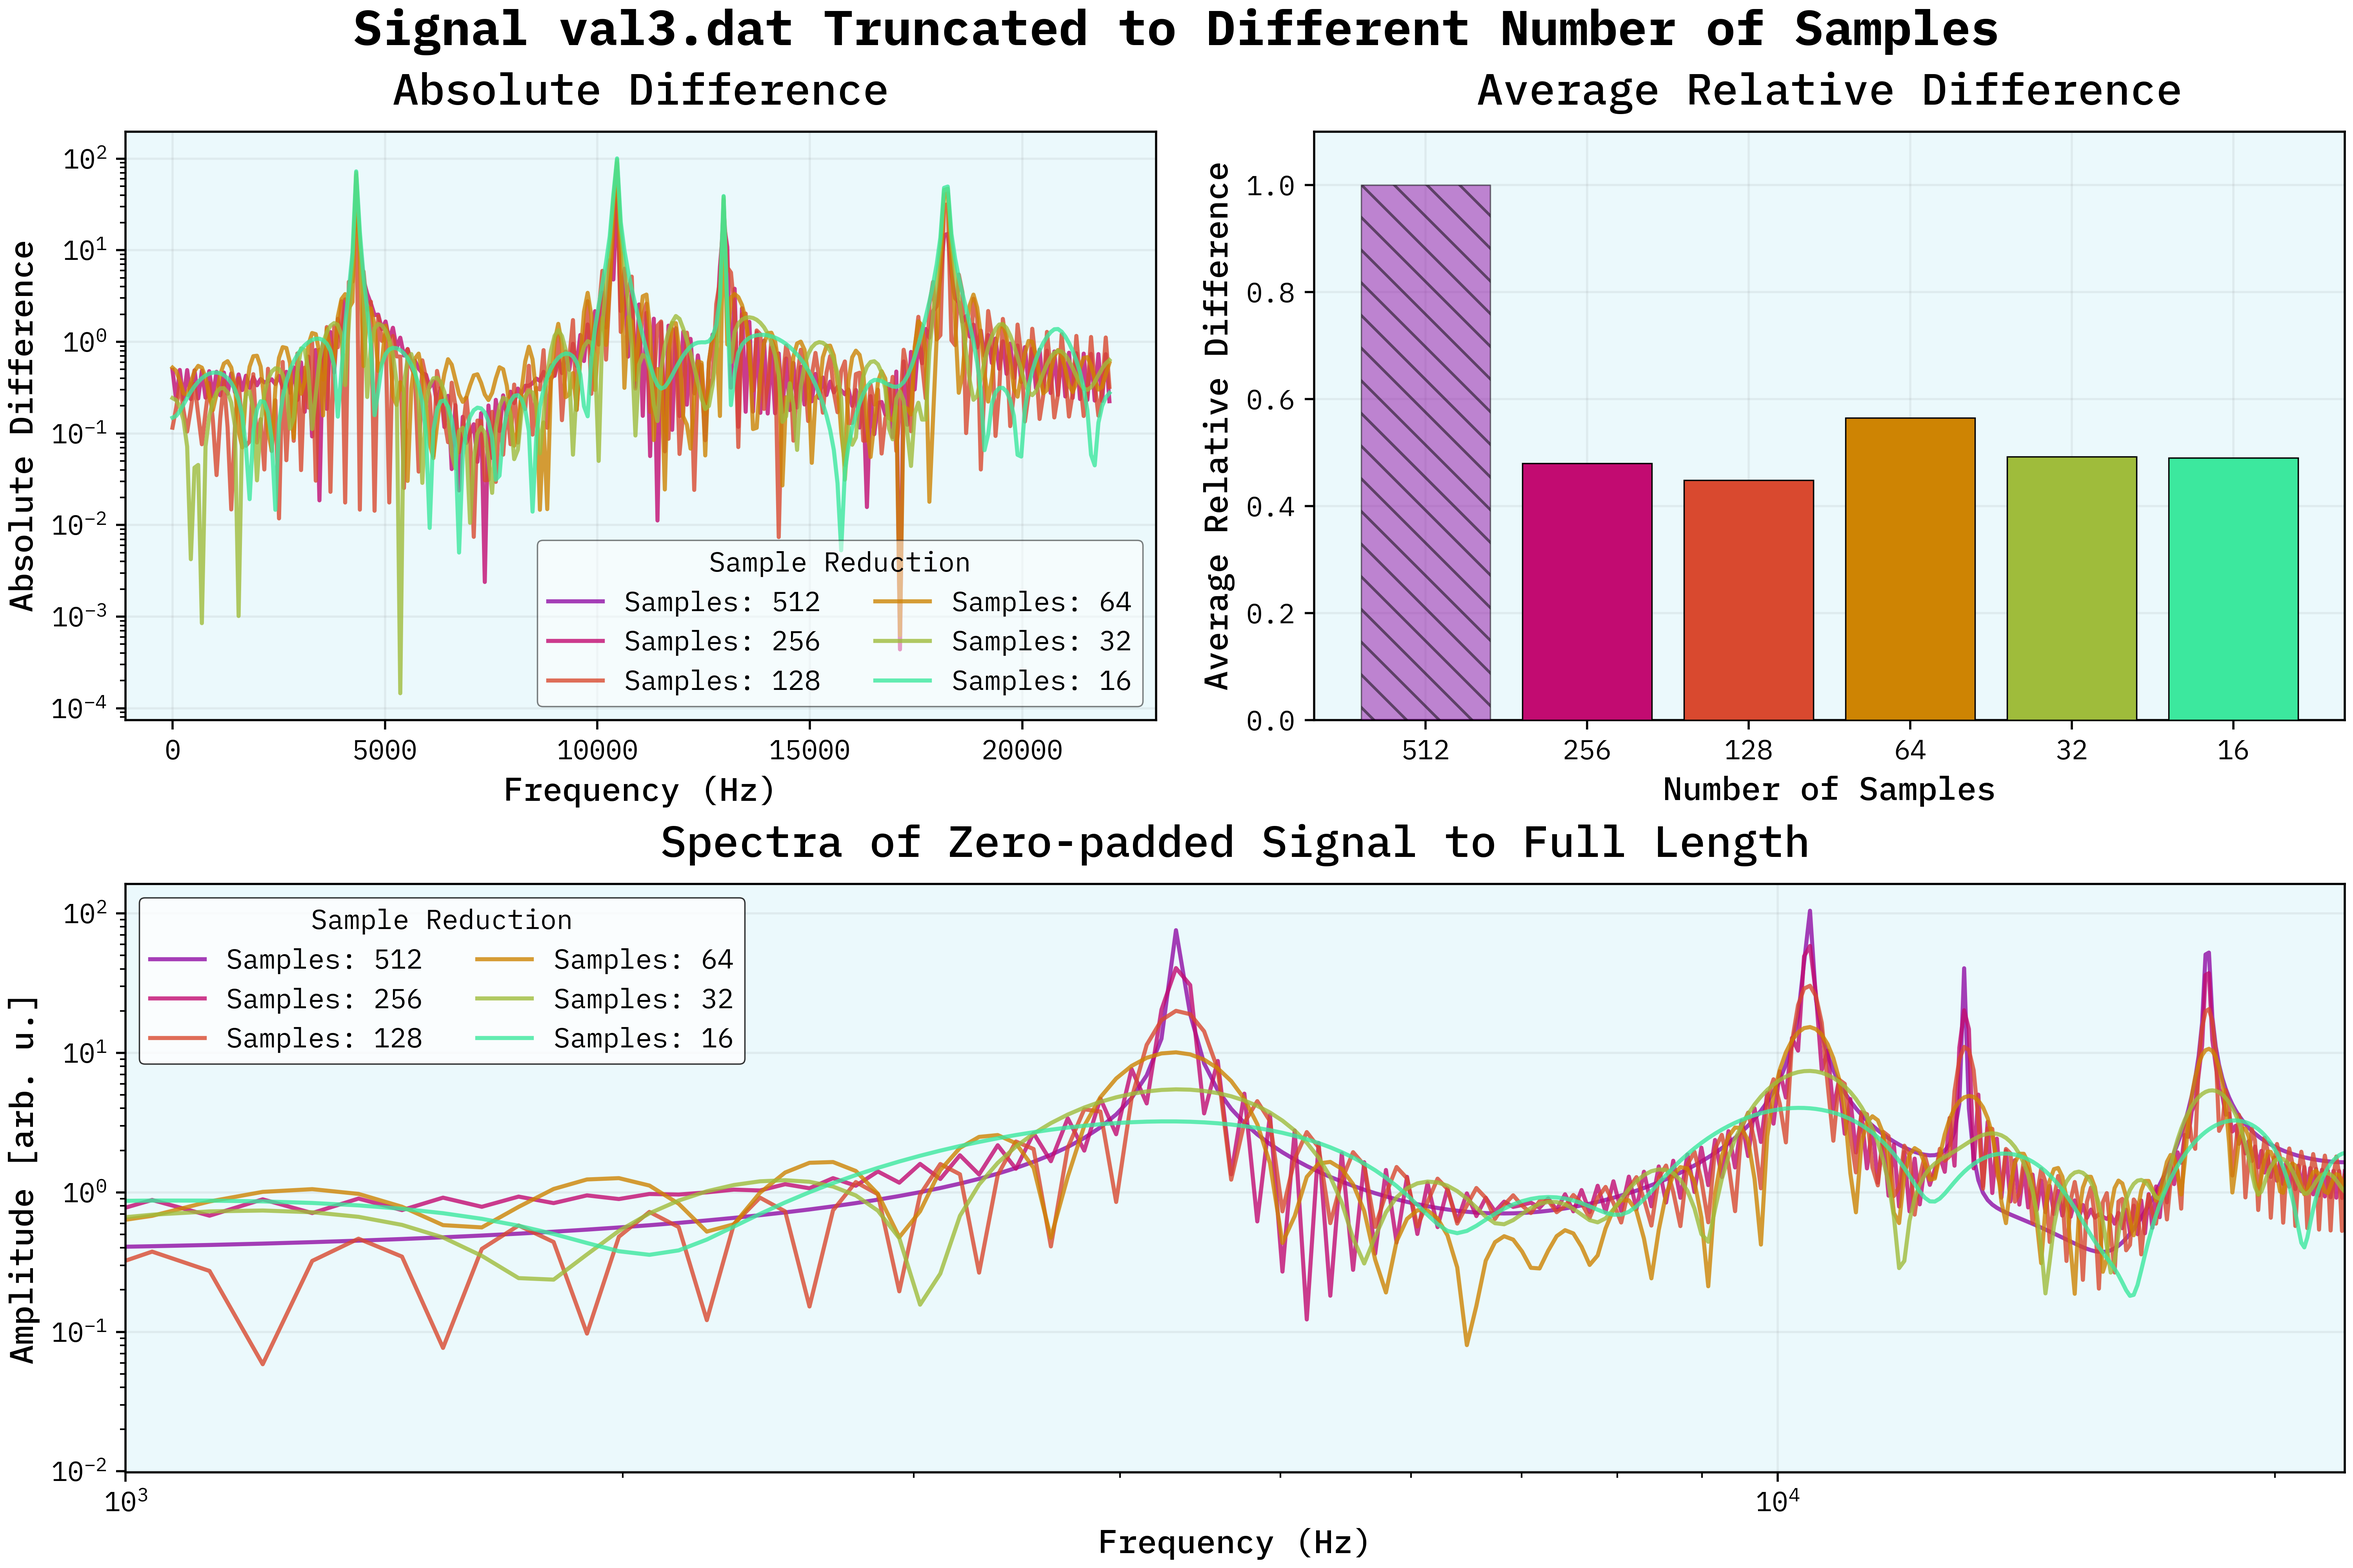
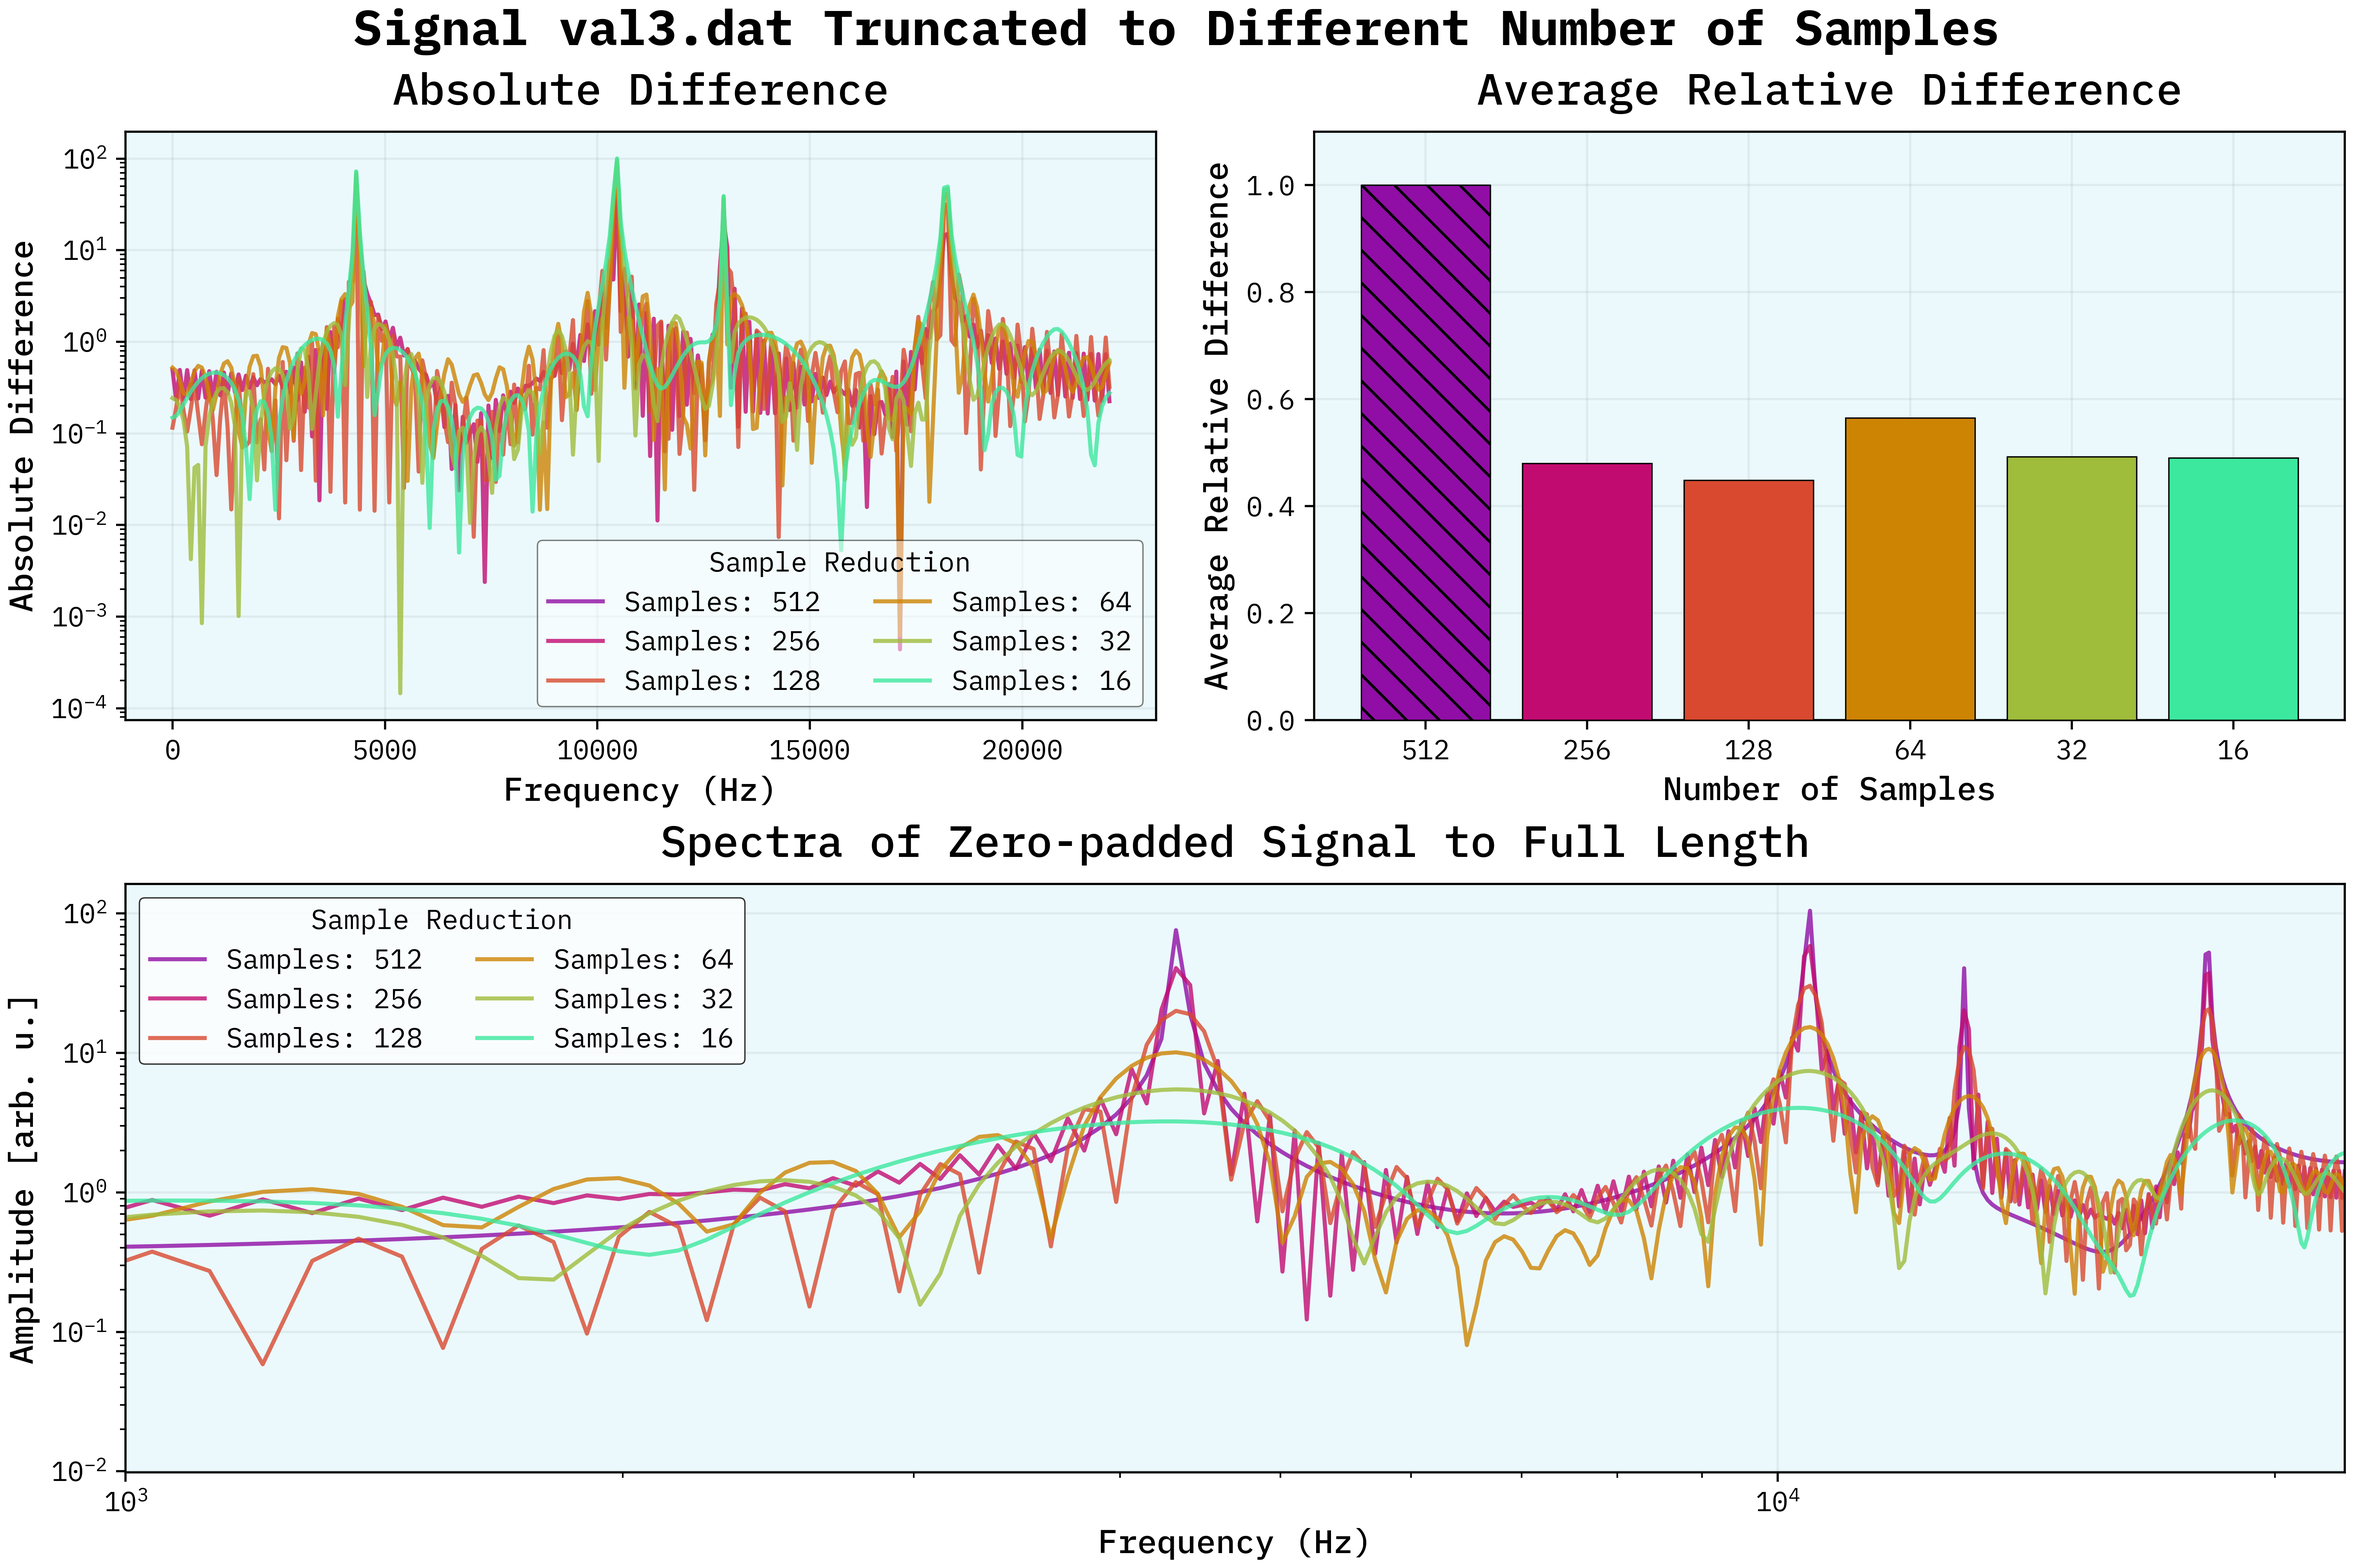
feat: :art: update plot features and shading of bars

Changed region(s): [[0.561, 0.0938, 0.6545, 0.4688]]

diff --git a/SpectralAnalysis/Code/simple-plot.py b/SpectralAnalysis/Code/simple-plot.py
@@ -1,0 +1,69 @@
+"""
+Plot signals and spectra with out and frills.
+"""
+import numpy as np
+import matplotlib.pyplot as plt
+import matplotlib as mpl
+import scipy.signal as signal
+import scipy.fft as fft
+from analysis import *
+
+# Constants
+SAMPLE_RATE = 44100
+
+# Use custom style
+mpl.style.use('./ma-style.mplstyle')
+
+# Load the signal
+data_path = './SuppliedData/val2.dat'
+data = np.loadtxt(data_path)
+data = data / np.max(data)
+data_len = len(data)
+data_time = 1/SAMPLE_RATE * data_len
+freq = np.linspace(0.0, 1.0/(2.0*(data_time/data_len)), data_len//2)
+bare_spectrum = fft.fft(data)
+bare_spectrum = bare_spectrum[:data_len//2]
+
+# Load second signal
+data_path2 = './SuppliedData/val3.dat'
+data2 = np.loadtxt(data_path2)
+data2 = data2 / np.max(data2)
+data_len2 = len(data2)
+data_time2 = 1/SAMPLE_RATE * data_len2
+bare_spectrum2 = fft.fft(data2)
+bare_spectrum2 = bare_spectrum2[:data_len2//2]
+
+# Plot
+colors = ["#37123c","#d72483","#ddc4dd","#60afff","#98CE00"]
+fig = plt.figure(figsize=(12, 8), layout='compressed')
+gs = fig.add_gridspec(2,2)
+ax = [fig.add_subplot(gs[0,0]), fig.add_subplot(gs[0,1]), fig.add_subplot(gs[1,:])]
+
+# Plot the 1. signal
+ax[0].plot(data, color=colors[1], alpha=0.8)
+ax[0].set_xlabel('Sample')
+ax[0].set_ylabel('Amplitude [arb. u.]')
+ax[0].set_title(f"Raw Signal: {data_path.split('/')[-1]}")
+
+# Plot the 2. signal
+ax[1].plot(data2, color=colors[3], alpha=0.8)
+ax[1].set_xlabel('Sample')
+ax[1].set_ylabel('Amplitude [arb. u.]')
+ax[1].set_title(f"Raw Signal: {data_path2.split('/')[-1]}")
+
+# Plot both spectra
+ax[2].plot(freq, np.abs(bare_spectrum), label=f"{data_path.split('/')[-1]}", color=colors[1], alpha=0.8, lw=1.5)
+ax[2].plot(freq, np.abs(bare_spectrum2), label=f"{data_path2.split('/')[-1]}", color=colors[3], alpha=0.8, lw=1.5)
+ax[2].set_xlabel('Frequency (Hz)')
+ax[2].set_ylabel('Amplitude [arb. u.]')
+ax[2].set_title("Bare Spectra of Both Signals")
+l2 = ax[2].legend(frameon=True)
+f2 = l2.get_frame()
+l2.set_title('Spectra')
+f2.set_facecolor('white')
+f2.set_edgecolor('black')
+f2.set_linewidth(0.5)
+f2.set_alpha(0.8)
+
+plt.savefig('./SpectralAnalysis/Images/raw-signals-spectra.png', dpi=500)
+plt.show()

diff --git a/SpectralAnalysis/Code/peak-widths.py b/SpectralAnalysis/Code/peak-widths.py
@@ -45,20 +45,20 @@ for window in windows:
     spectra[window] = spectra[window][:data_len//2]
 
 # Bare peak dimensions
-bare_peaks = signal.find_peaks(np.abs(bare_spectrum), height=50)
+bare_peaks = signal.find_peaks(np.abs(bare_spectrum), height=30)
 bare_peak_widths = signal.peak_widths(np.abs(bare_spectrum), bare_peaks[0], rel_height=0.5)
 bare_peak_widths = bare_peak_widths[0] * SAMPLE_RATE / data_len
 
 # Calculate peak widths
 peaks = {}
 for window in windows:
-    peaks[window] = signal.find_peaks(np.abs(spectra[window]), height=30)
+    peaks[window] = signal.find_peaks(np.abs(spectra[window]), height=10)
     peaks[window] = np.array(peaks[window][1]["peak_heights"]) / bare_peaks[1]["peak_heights"]
 
 # Calculate peak widths -> FWHM
 peak_widths = {}
 for window in windows:
-    peak = signal.find_peaks(np.abs(spectra[window]), height=30)
+    peak = signal.find_peaks(np.abs(spectra[window]), height=10)
     peak_widths[window] = signal.peak_widths(np.abs(spectra[window]), peak[0], rel_height=0.5)
     peak_widths[window] = (peak_widths[window][0] * SAMPLE_RATE/data_len) / bare_peak_widths[0]
 
@@ -71,8 +71,9 @@ x_axis = np.arange(len(windows))
 ax[0].set_title("Relative Peak Heights")
 ax[0].bar(x_axis, [np.mean(peaks[window]) for window in windows], color=cm, alpha=1,
           zorder=10, edgecolor='black', linewidth=0.5)
+ax[0].fill_between([-0.4, 0.4], 0, 1, color=cm[0], edgecolor="black", linewidth=0.5, hatch="\\\\", zorder=10)
 ax[0].set_xticks(x_axis)
-ax[0].set_xticklabels(windows.keys(), rotation=45)
+ax[0].set_xticklabels(windows.keys(), rotation=30)
 # ax[0].set_xlabel("Window Function")
 ax[0].set_ylabel("Peak Heights")
 
@@ -81,7 +82,8 @@ ax[1].set_title("Relative Peak Widths")
 ax[1].bar(x_axis, [np.mean(peak_widths[window]) for window in windows], color=cm, alpha=1,
           zorder=10, edgecolor='black', linewidth=0.5)
 ax[1].set_xticks(x_axis)
-ax[1].set_xticklabels(windows.keys(), rotation=45)
+ax[1].fill_between([-0.4, 0.4], 0, 1, color=cm[0], edgecolor="black", linewidth=0.5, hatch="\\\\", zorder=10)
+ax[1].set_xticklabels(windows.keys(), rotation=30)
 # ax[1].set_xlabel("Window Function")
 ax[1].set_ylabel("Peak Widths")
 

diff --git a/SpectralAnalysis/Code/truncate-data.py b/SpectralAnalysis/Code/truncate-data.py
@@ -17,7 +17,7 @@ SAMPLE_RATE = 44100
 mpl.style.use('./ma-style.mplstyle')
 
 # Load the signal
-data_path = './SuppliedData/val2.dat'
+data_path = './SuppliedData/val3.dat'
 data = np.loadtxt(data_path)
 data = data / np.max(data)
 data_len = len(data)
@@ -91,9 +91,9 @@ ax[1].set_xticks(np.arange(len(n_samples)))
 ax[1].set_xticklabels([f"{sample}" for sample in n_samples], rotation=0)
 ax[1].set_xlabel('Number of Samples')
 ax[1].set_ylabel('Average Relative Difference')
-ax[1].set_ylim(0.9, 2.2)
+ax[1].set_ylim(0.0, 1.1)
 ax[1].fill_between([bins[0], bins[1]], 0.0, 1.0, color=cm[0], zorder=10, hatch="\\\\",
-                   alpha=0.5, linewidth=0.5, edgecolor='black')
+                   alpha=1, linewidth=0.5, edgecolor='black')
 
 ax[2].set_title("Spectra of Zero-padded Signal to Full Length")
 for i, sample in enumerate(spectra):
